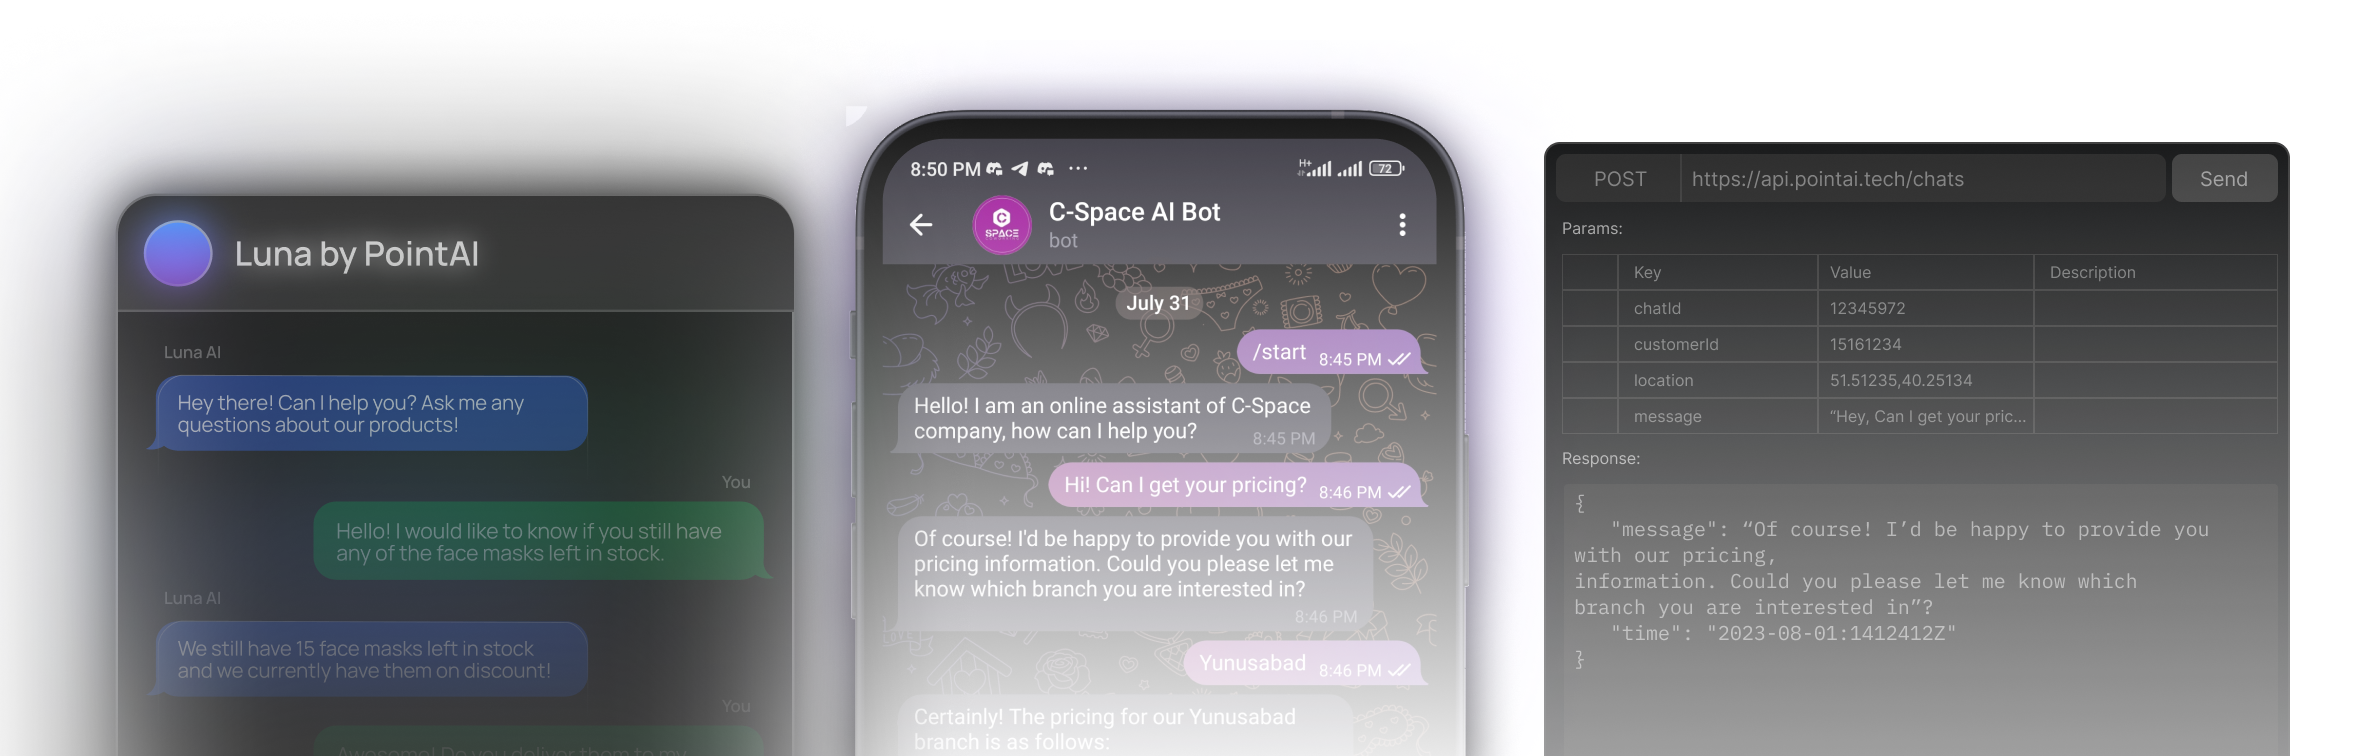
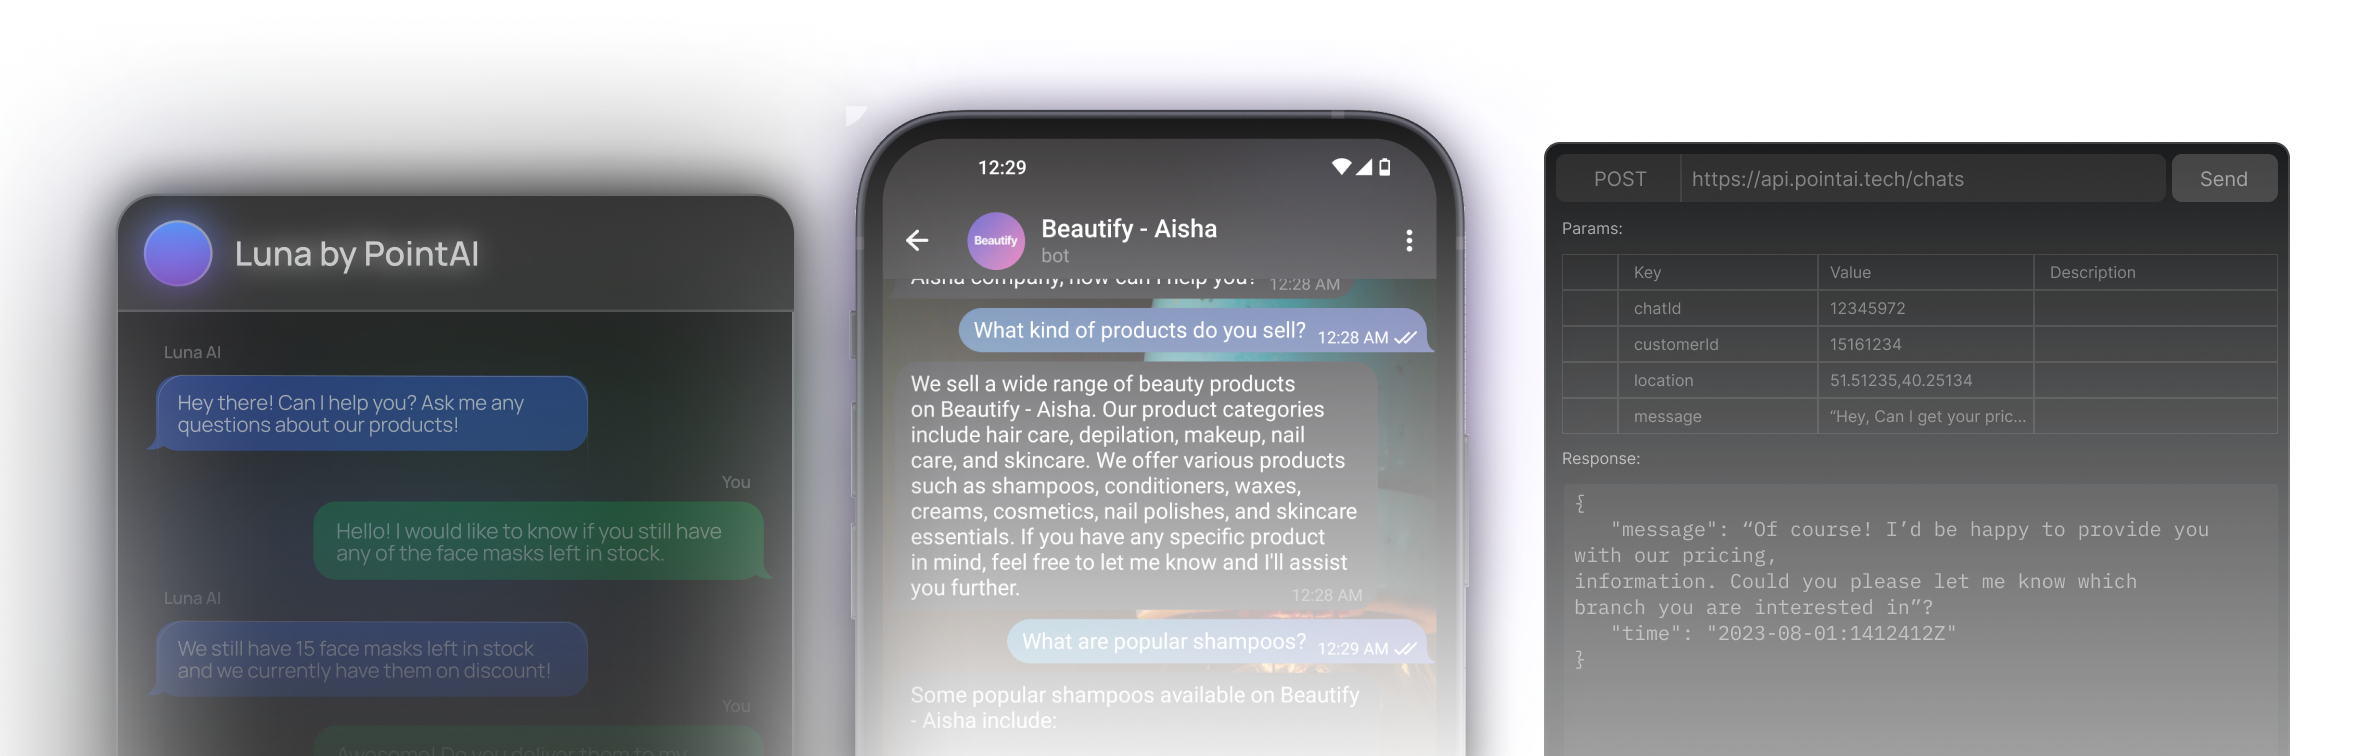
minor fixes

Changed region(s): [[0.3712, 0.213, 0.6186, 0.9735], [0.5568, 0.213, 0.5877, 0.2434]]

diff --git a/index.html b/index.html
@@ -388,7 +388,7 @@
                 <li><a href="#integrations">Integrations</a></li>
                 <li><a href="#contacts">Contacts</a></li>
             </ul>
-            <a href="#contact" class="gradient-button">Get started</a>
+            <a href="https://t.me/beautifyaibot" class="gradient-button">Get started</a>
         </nav>
 
         <section class="jumbotron">
@@ -400,7 +400,7 @@
                 your
                 customer experience.</p>
 
-            <a href="#contact" class="gradient-button">See it in Action</a>
+            <a href="https://t.me/beautifyaibot" class="gradient-button">See it in Action</a>
         </section>
     </main>
 
@@ -480,16 +480,16 @@
             <img src="https://media0.giphy.com/media/ICOgUNjpvO0PC/giphy.gif?cid=ecf05e47h8jd7igrgwwu7c9gve7vt5wsrcfzrptd2slpzp0l&ep=v1_gifs_search&rid=giphy.gif&ct=g"
                 alt="kitten" class="gif">
             <h1>PointAI</h1>
-            <a href="#" class="button">try it out</a>
-            <h1>PointAI</h1>
+            <a href="https://t.me/beautifyaibot" class="button">try it out</a>
+            <h1>Beautify</h1>
         </div>
 
         <div aria-hidden="true">
             <img src="https://media0.giphy.com/media/ICOgUNjpvO0PC/giphy.gif?cid=ecf05e47h8jd7igrgwwu7c9gve7vt5wsrcfzrptd2slpzp0l&ep=v1_gifs_search&rid=giphy.gif&ct=g"
                 alt="kitten" class="gif">
             <h1>PointAI</h1>
-            <a href="#" class="button">try it out</a>
-            <h1>PointAI</h1>
+            <a href="https://t.me/beautifyaibot" class="button">try it out</a>
+            <h1>Beautify</h1>
         </div>
     </div>
 
@@ -500,6 +500,7 @@
         <a class="mail" href="mailto:azamat@pointai.tech">hello@pointai.tech</a>
     </section>
 
+    <script src="https://pointai.tech/widget/v1/dist.js" data-user-id="64846572d9053a395685edbf"></script>
 </body>
 
 </html>
